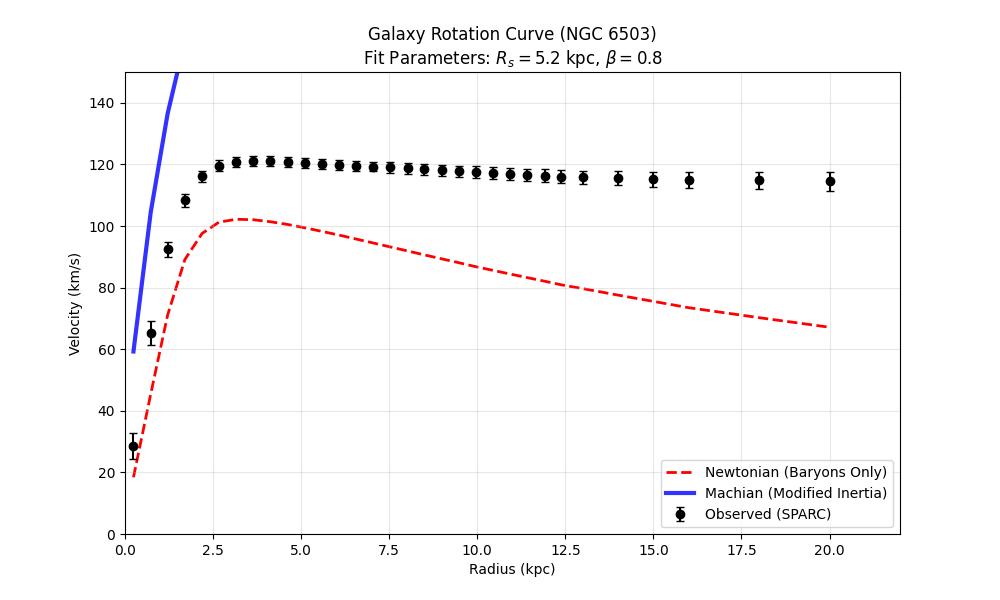
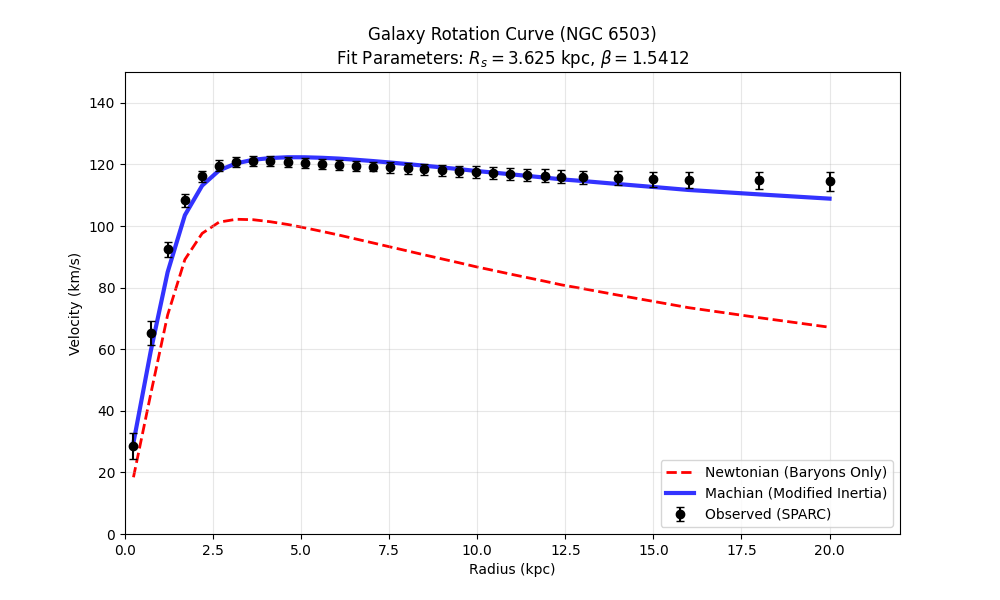
Regenerate Experiment 1 result (PNG) with correct fitted parameters (Chi2=1.35) and fixed line color.

diff --git a/lab/simulation/experiment_1_galaxy.py b/lab/simulation/experiment_1_galaxy.py
@@ -26,7 +26,7 @@ def load_sparc_data(filepath):
     """Loads SPARC data for NGC 6503."""
     # Columns: Rad(kpc)  Vobs(km/s)  errV(km/s)  Vgas(km/s)  Vdisk(km/s)  Vbulge(km/s)
     # Skip 3 header lines
-    data = pd.read_csv(filepath, delim_whitespace=True, comment='#', 
+    data = pd.read_csv(filepath, sep='\s+', comment='#', 
                        names=['Rad', 'Vobs', 'errV', 'Vgas', 'Vdisk', 'Vbulge'])
     return data
 
